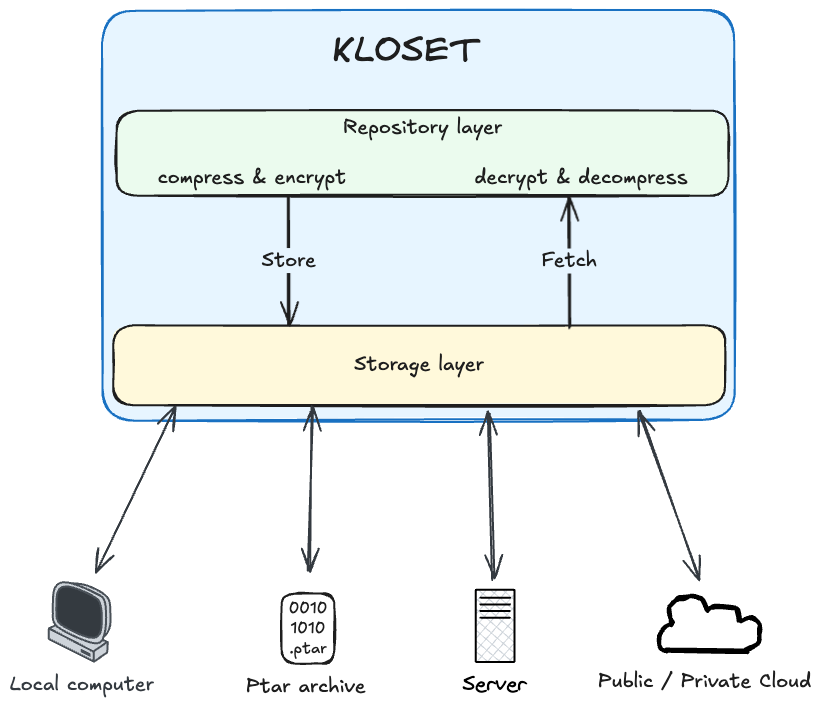
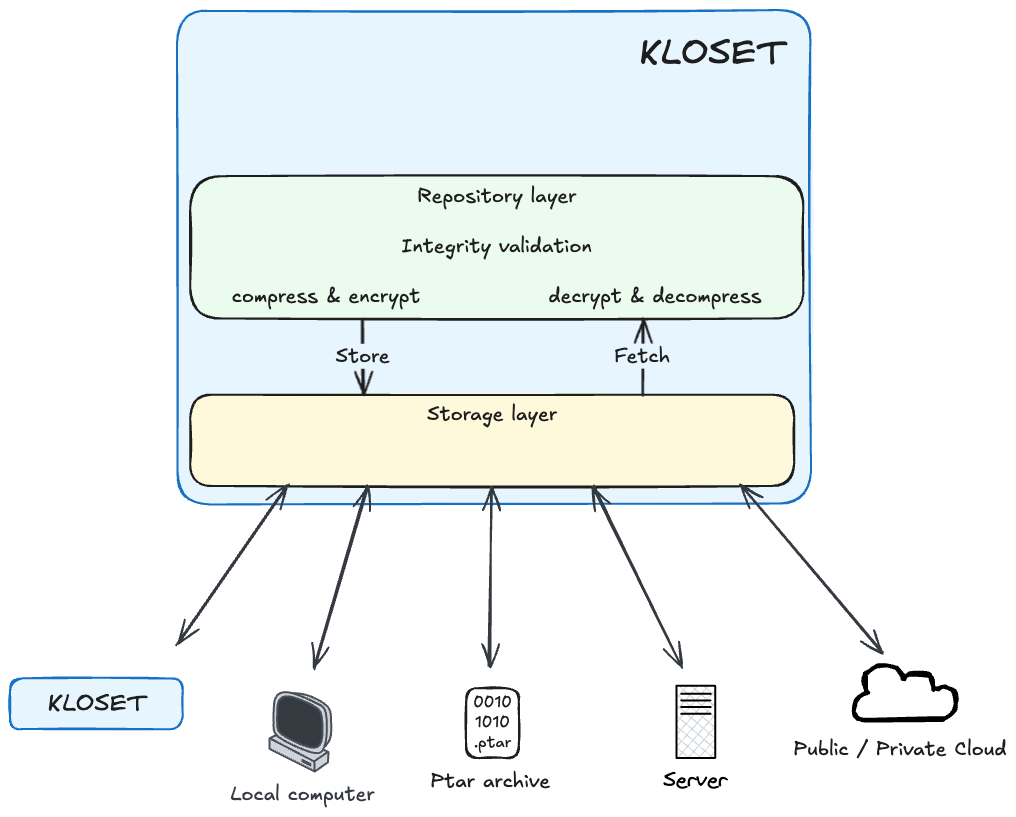
update

diff --git a/content/articles/2025-04_01/index.md b/content/articles/2025-04_01/index.md
@@ -1,5 +1,5 @@
 ---
-title: "Kloset: our backup engine"
+title: "Kloset: the immutable data store"
 date: 2025-04-14 08:00:00 +0100
 authors:
 - "gilles"
@@ -11,11 +11,23 @@ tags:
  - backups
 ---
 
-On the surface, `plakar` is yet another backup software that takes some data, stores it somewhere until it has to be restored:
-a glorified `cp` if you will.
+On the surface, `plakar` may appear as just another backup tool: it takes data and safely stores it until restoration is needed—essentially, a sophisticated version of the `cp` command.
 
-Under the hood, it’s powered by **Kloset**, a dedicated engine we built to make compact, immutable, inspectable, and secure backups that work across filesystems, databases, object stores, and distributed environments — without external state or centralized coordination.
-Our goal: backup anything, store anywhere, restore everywhere.
+Yet beneath this simplicity lies the powerful **Kloset** engine, designed to package data along with its context, structure, metadata, and integrity—much like containers bundle applications with their dependencies. The versatility of **Kloset** allows it to address numerous specialized scenarios:
+
+- Reliable backup and restoration
+- Long-term archiving
+- Secure log retention for compliance and audits
+- Preservation of legal evidence
+- Versioning of datasets for machine learning
+- Digital authenticity proofs for contracts and media
+- Integrity assurance in software supply chains
+
+And likely many other applications waiting to be discovered.
+
+Plakar leverages **Kloset**’s capabilities to create compact, immutable, secure, and transparent backups. It seamlessly integrates with diverse storage solutions including filesystems, databases, object storage, and distributed platforms, without relying on external state or centralized coordination. Our vision: **back up anything, store anywhere, restore everywhere**.
+
+--- 
 
 
 This post introduces the **Kloset architecture**, explains its design decisions, and outlines how it enables features like incremental backups, versioning, deduplication, granular restores, and verifiable integrity — all with minimal system footprint.
@@ -32,18 +44,43 @@ This post introduces the **Kloset architecture**, explains its design decisions,
 
 ## Core Architecture & Principles of Kloset
 
-Kloset was built with a clear set of non-negotiable goals: backups must be **immutable**, **fully encrypted at the source**, **efficient** even at scale or over slow links, **navigable without full restores**, **portable**, and **verifiable** without relying on external metadata.
+Kloset was built with a clear set of non-negotiable goals: backups must be **immutable**, **fully encrypted at the source**, **efficient** even at scale or over slow links, **browseable without full restores**, **portable**, and **verifiable** without relying on external metadata.
 
-| Feature | Kloset | Rsync | Tarballs | Snapshot |
-|---|---|---|---|---|
-| Immutable Backups | ✅ | ❌ | ❌ | ✅ (limited) |
-| Incremental Efficiency | ✅ | ✅ | ❌ | ✅ |
-| Granular Restore | ✅ | ✅ (partial) | ❌ | ✅ (limited) |
-| Encryption & Security | ✅ Built-in | ❌ (manual) | ❌ (manual) | ❌ (manual)  |
-| Self-contained & Portable | ✅ | ❌ | ❌ | ❌ |
+
+| console | browser |
+|---|---|
+| ![](console-browser.png) | ![](ui-browser.png) | 
+
+
+| Feature | Kloset | Rsync | Tarballs | Volume snapshot | opensource competitors |
+|---|---|---|---|---|---|
+| Immutable Backups | ✅ | ❌ | ❌ | ✅ (limited) |✅ |
+| Incremental Efficiency | ✅ | ✅ (suboptimal) | ❌ | ✅ | ✅ |
+| Granular Restore | ✅ | ✅ (partial) | ❌ | ✅ (limited) | ✅ |
+| Data context | ✅ | ❌ | ❌ | ✅  | ✅ |
+| Browseable | ✅ | ✅ | ❌ |  ✅  | ✅ (limited for some) |
+| Encryption | ✅ Built-in | ❌ (manual) | ❌ (manual) | ❌ (manual)  | ✅ (limited for some) |
+| Self-contained | ✅ | ❌ | ✅ | ❌ | ✅ (limited for some) |
+| Data indexing | ✅ | ❌ | ❌ | ❌ | ❌ |
+| Archive format | ✅ | ❌ | ✅ | ❌ | ❌ |
+| Multi-source | ✅ | ❌ | ❌ | ❌ | ❌ |
+| Multi-target | ✅ | ❌ | ❌ | ❌ | ❌ |
 
 
 Traditional approaches like tarballs, rsync deltas, or volume snapshots couldn't meet these requirements. We needed a model that could, so we chose to represent all data internally as a **virtual filesystem**. It’s a flexible, expressive abstraction that fits any data source — filesystems, databases, APIs — and supports efficient storage, indexing, and recovery.
+
+### Modern Differentiators
+
+Modern backup solutions have improved but often still fall short in areas Kloset addresses directly:
+
+- **Typed Snapshots:** Kloset snapshots can represent different logical types (e.g., filesystems, databases, object stores) rather than just raw files.
+- **Portable Archive Format (PTAR):** Export any snapshot, or snapshot collection, as a fully self-contained portable archive for easy distribution, offline storage, or transfer.
+- **Built-in Indexing and Analyzing:** Snapshots are natively indexed and searchable; you can query the contents without restoring them first.
+- **Multi-source Backups:** A single backup can aggregate data from multiple sources (e.g., local files, S3 buckets, and a Postgres database) into one coherent snapshot.
+- **Multi-target Restoration:** Restore one snapshot to multiple destinations simultaneously, with native format translation when necessary.
+- **Cryptographic Auditing:** Built-in tamper detection and independent verifiability at every level (chunks, files, metadata).
+
+### Core Model
 
 The idea is simple:
 
@@ -73,14 +110,11 @@ This architecture lets Kloset scale from small local backups to massive cloud de
 
 ## Here comes Kloset
 
-Kloset, our backup engine, is in charge of abstracting the problem into smaller problems and providing solutions.
+Kloset, our immutable data store engine, is in charge of abstracting the problem into smaller problems and providing solutions.
 
 Before we dive in,
 here's a full overview of the architectural design,
 this article will progressively go through each of these layers to describe their responsibilities.
-
-![](full.png)
-
 
 ### Storage Layer
 
@@ -120,7 +154,9 @@ At the top of the Kloset architecture lies the **snapshot layer**, responsible f
 
 While the repository layer provides access to decoded but unstructured data chunks, the snapshot layer organizes them into **coherent groups of related data** that represent a backup at a specific point in time. Each **snapshot** captures a complete view of a dataset, including:
 
-- File and directory hierarchy  
+- Snapshot type (filesystem, database, application, ...)
+- Indexing for faster search
+- Tree hierarchy for browseable objects, files, directories, ...
 - Metadata (timestamps, permissions, ownership, etc.)  
 - Content hashes for deduplication and integrity  
 - Logical relationships and structure reconstructed from the raw data
@@ -134,7 +170,7 @@ Internally, the snapshot layer is built on top of a **custom virtual filesystem*
 ![](snapshot-layer.png)
 
 
-## Storage Connectors: Universal Backend Integration
+## Storage bridge: Universal Backend Integration
 
 **Storage connectors** are pluggable components that allow Kloset to interface with a variety of backend storage systems, such as local filesystems, SFTP servers, or S3-compatible object stores.
 
@@ -148,11 +184,11 @@ This abstraction enables Kloset to interact with all supported storage backends 
 Thanks to this simplicity, implementing a new storage connector can be very lightweight—**a basic connector may require only a few hundred lines of code**, making it easy to extend Kloset’s compatibility with new storage platforms.
 
 
-![](store-connectors.png)
+![](store-integrations.png)
 
 
 
-## Source & Target Connectors: Bridging External Data
+## Data bridge: Bridging External Data
 
 **Source** and **target** connectors act as bridges between the external world and Kloset’s internal **snapshot layer**, enabling seamless data ingestion and restoration.
 
@@ -160,12 +196,13 @@ Thanks to this simplicity, implementing a new storage connector can be very ligh
 
 - **Target connectors**, in contrast, take a snapshot and **translate it back** into the format expected by the destination system. This might involve reconstructing files and directories on disk, restoring cloud objects, or pushing data into a remote service.
 
+In addition to data transport, connectors also provide a visualization layer, offering intuitive representations of external data. This capability enhances user understanding and simplifies the management of backup and restoration workflows.
+
 Because these connectors operate purely at the **transport level**, they do not need to deal with encoding, encryption, or storage internals. This makes them simple and **lightweight to implement**, often requiring only minimal code to support a new source or target system.
 
 By clearly separating data capture and restoration responsibilities, source and target connectors allow Kloset to integrate with a wide range of systems—handling everything from simple file trees to complex, domain-specific data sources—**without impacting the core snapshot logic**.
 
-
-![](importers-exporters.png)
+![](data-connectors.png)
 
 
 
@@ -185,9 +222,6 @@ Under the hood, the VFS is backed by a **custom B+Tree**, offering efficient, or
 
 By offering a structured, navigable, and resource-efficient interface to snapshot contents, the VFS forms the backbone of higher-level features like restores, comparisons, and virtual browsing—all without sacrificing performance or portability.
 
-![](vfs.png)
-
-
 
 ## Advanced Features & Capabilities
 
@@ -197,17 +231,18 @@ While data blocks are being stored, **Kloset simultaneously builds a structured 
 
 **What the Metadata Captures**
 
-- **File and Folder Hierarchy**  
-  The complete structure of the dataset — including nested directories, symbolic links, and hard links — is recorded in a virtual filesystem model.
-
-- **Permissions, Timestamps, Ownership**  
-  Full POSIX-style metadata is preserved, making it possible to restore not just content, but also its exact execution and access semantics.
+- **Structure**  
+  The complete structure of the dataset — including nested directories, symbolic links, and hard links for filesystems — is recorded in a virtual filesystem model.
 
 - **Application-Specific Context**  
   Source connectors can embed domain-aware metadata (e.g., database schema details, mount point info, or volume names), enabling deep inspection of structured data.
 
+- **Permissions, Timestamps, Ownership**  
+  Full POSIX-style metadata is preserved, making it possible to restore not just content, but also its exact execution and access semantics.
+
 - **Tags, Labels, Logical Groupings**  
-  Snapshots and their contents can be annotated with logical metadata — including tags, labels, or policy hints — allowing for advanced filtering and lifecycle management.
+  Snapshots and their contents can be annotated with logical metadata — including tags, labels, or policy hints — allowing for advanced filtering and lifecycle management:
+  organising snapshots per business units, production vs staging, etc...
 
 
 The metadata engine enables **in-place querying and comparison** of snapshots, without needing to restore or unpack them. Example use cases:
@@ -237,7 +272,7 @@ Kloset enables **fast, precise, and flexible restoration workflows** by leveragi
   Snapshots can be **navigated like a live filesystem**, thanks to Kloset's virtual filesystem and metadata index. You can explore the full hierarchy, list files, and view metadata **without restoring a single byte of content**.
 
 - **Granular, Targeted Restores**  
-  Need just a file? A folder? A single database table or config? Kloset allows **partial restores** by streaming **only the minimal required blocks** to reconstruct the requested content — no full snapshot unpacking, no overhead.
+  Need just a single database table or config? A file or folder? Content of an S3 object? Kloset allows **partial restores** by streaming **only the minimal required blocks** to reconstruct the requested content — no full snapshot unpacking, no overhead.
 
 - **Format-Agnostic Output**  
   Restored data doesn’t need to return to its original format or location. Kloset supports restoring to **alternative targets**, such as converting a filesystem snapshot to S3 objects, or extracting structured data into a different format. This makes it ideal for cross-system workflows.
